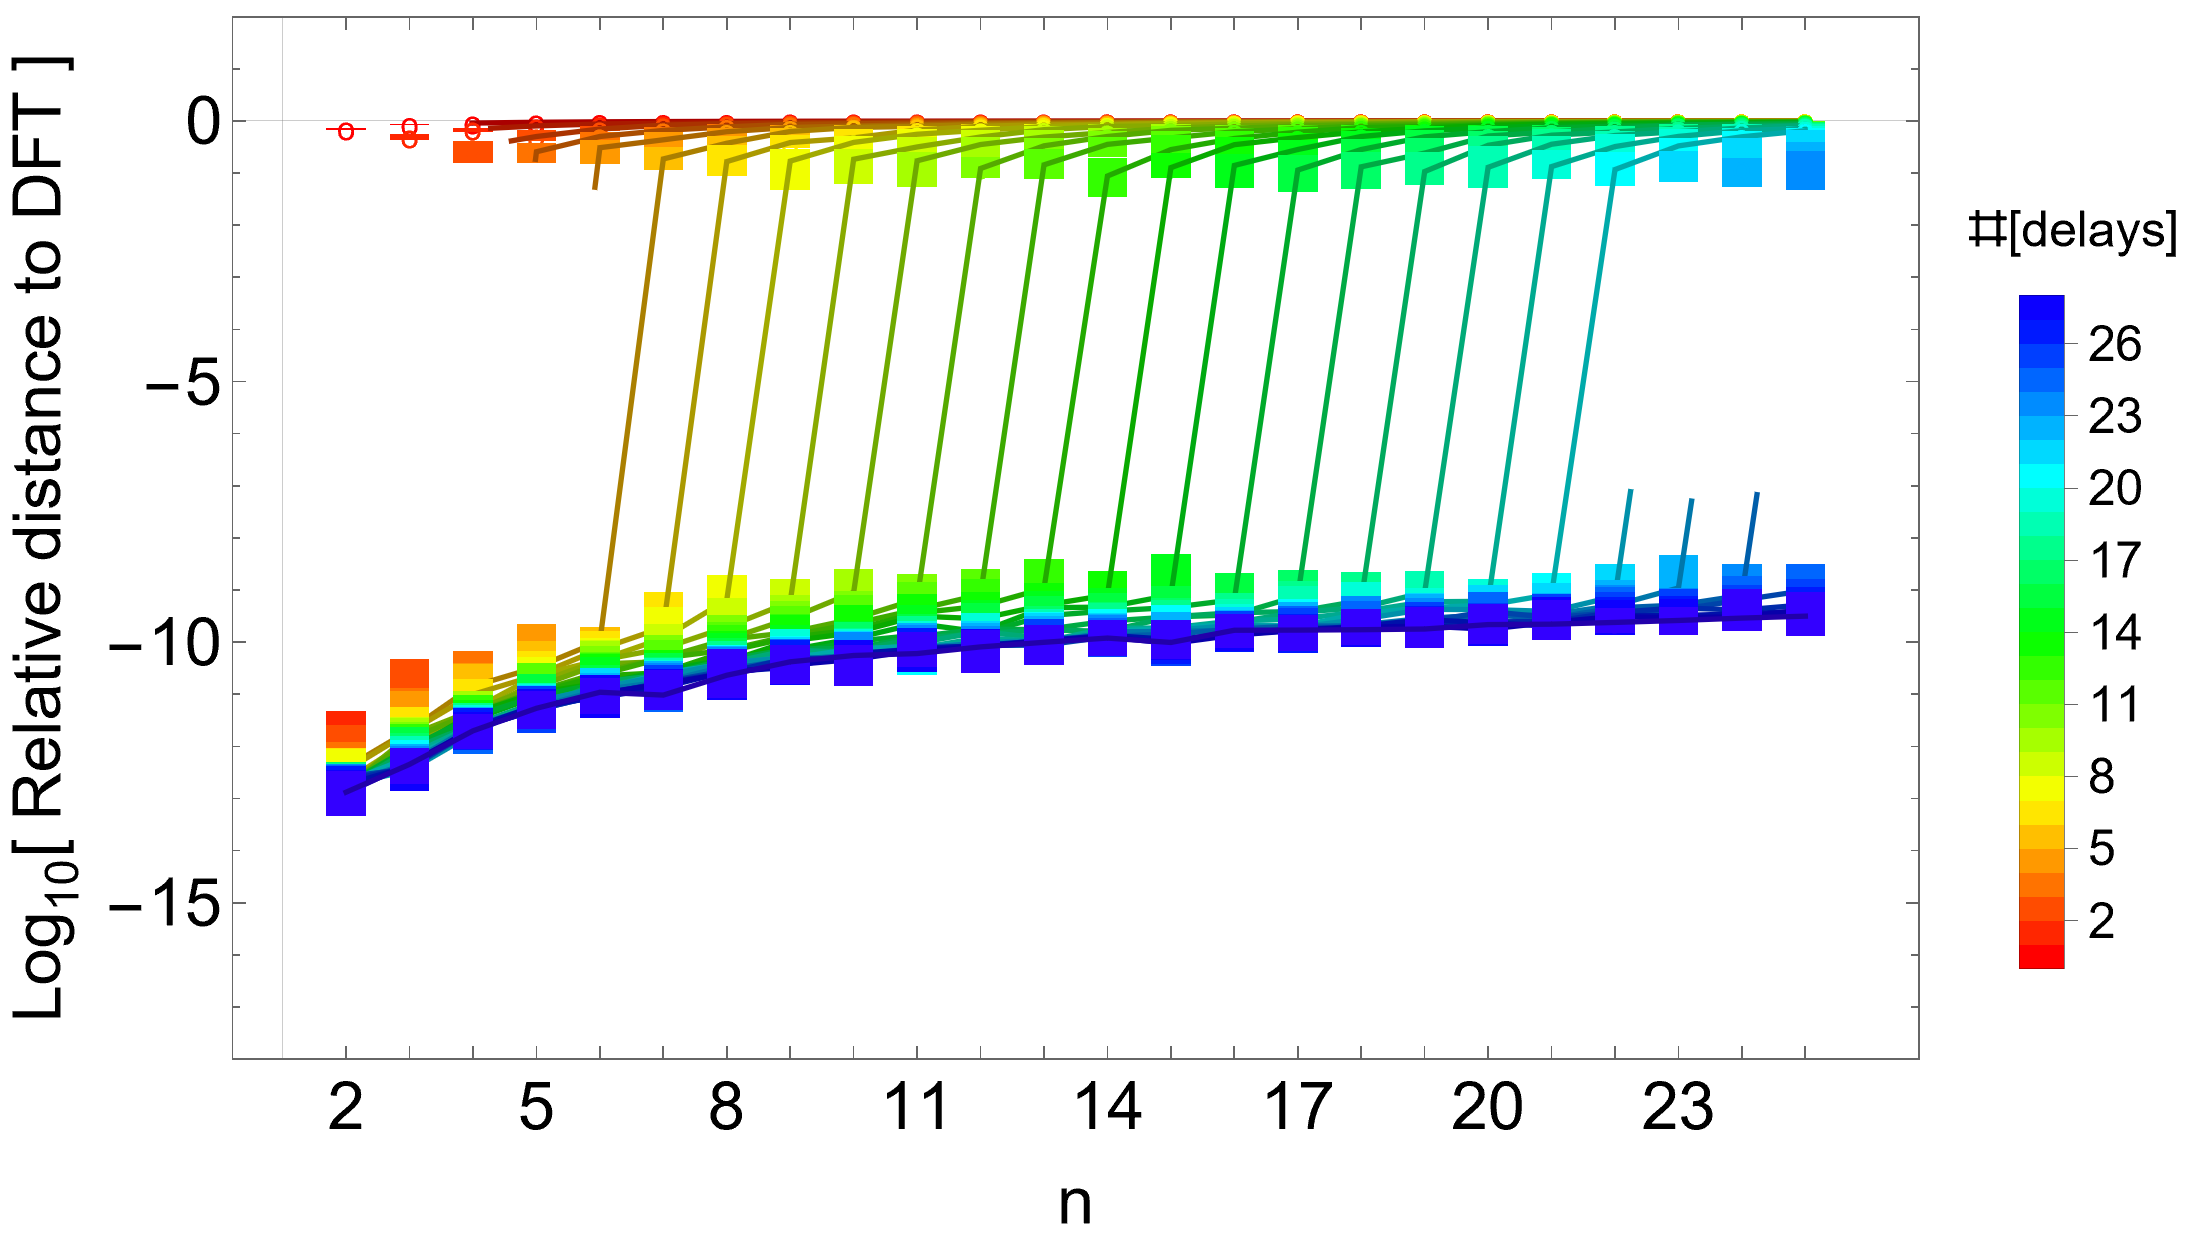
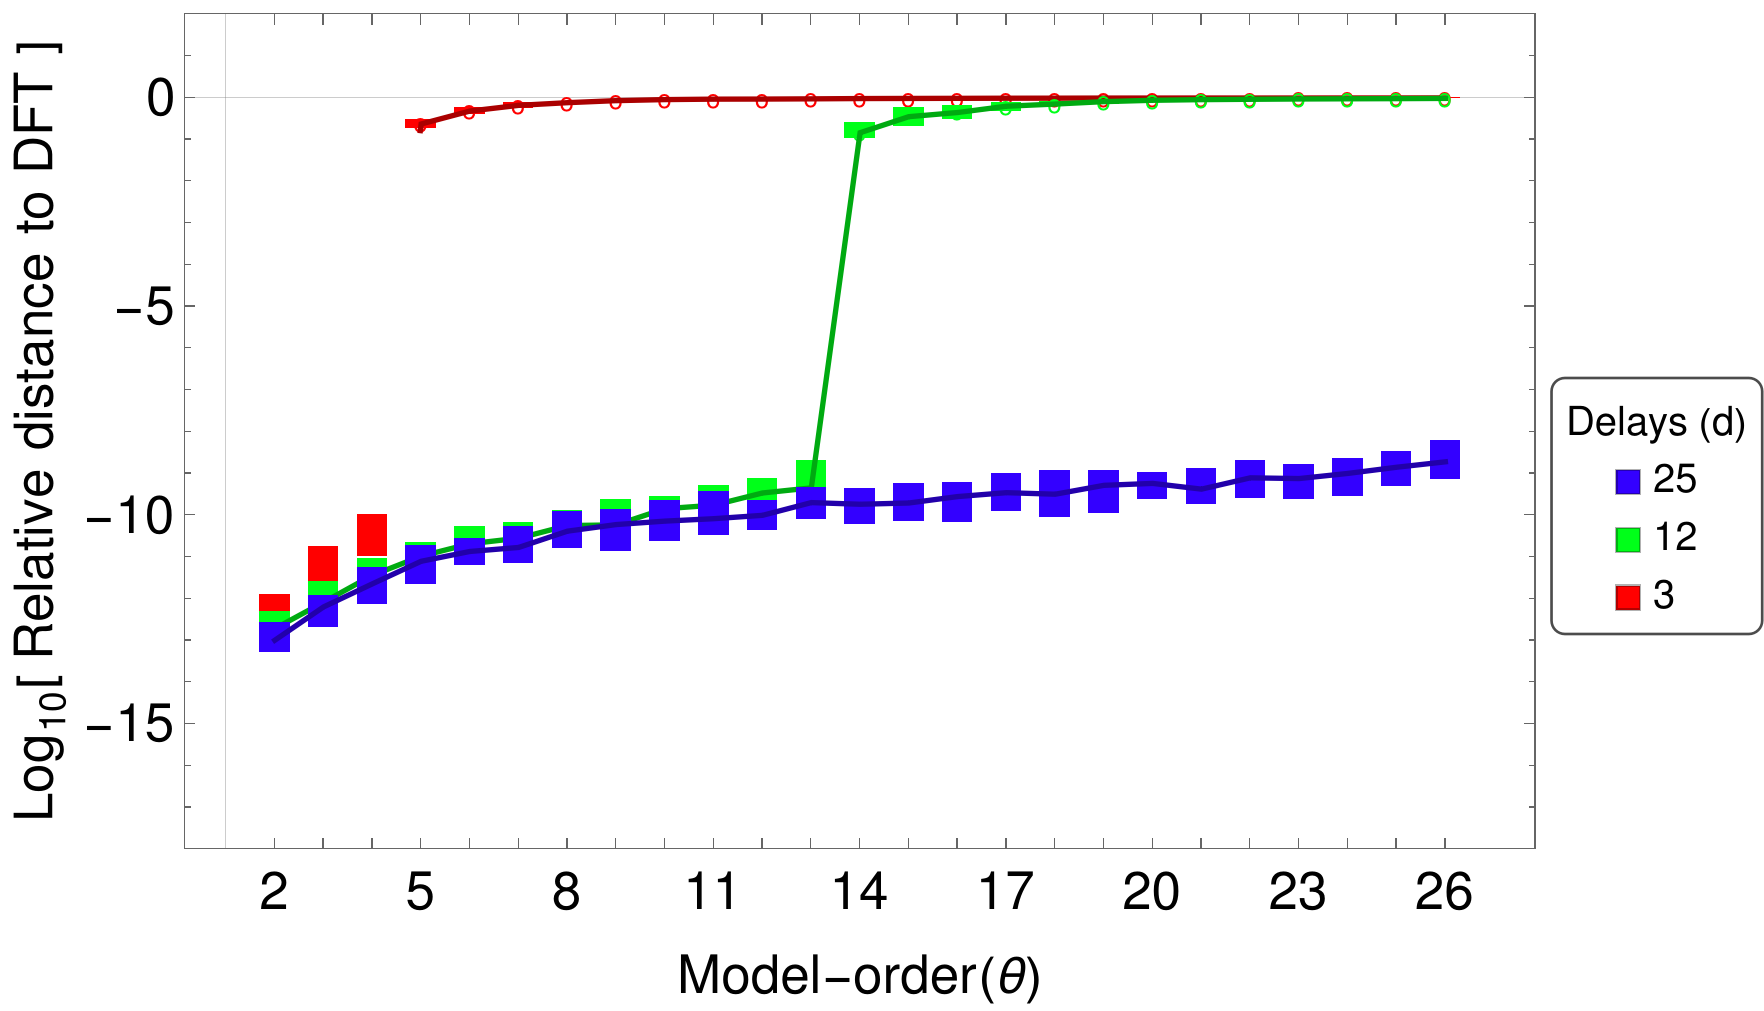
Cleaner plots ++
DistanceToDFT plots
- Only 3 time delays visualized
- Minimum #[delays] = 3

lti.m
- Removed everything after the msub check.
- lti_1a ~ Has 1 but others are not roots of unity.
- lti_3 ~ Dissipative evals of magnitude 0.8-0.9

@lti.m, vdp.m, cavity.m:
Save the plot of singular value tail that gets truncated

--------------------------------------------------------------
Simulation stats:

- delays < 6 ==> No tail lost
  - (LTI 1a  5/5) (LTI 1b 5/5) (LTI 3  5/5)

- only affects for excess delays, away from (o=r) @ LTIs while
preserving non-decreasingness.
  - LTI 1a (12/15) (Tailed 5/15) (Spik 5/5)
  - LTI 1b (21/21) (Tailed 6/17) (Spik 7/7)
  - LTI 3  (12/12) (Tailed 3/9) (Spik 2/9)

- VDP: Spikes @ 11 and 14(only for 12 delays)
  - (11+14   5/5) (Tailed17 0/5)

- Cavity flows.
  - 30k (NoBlueSpik 3/3) (TailedBlue 0/3)

diff --git a/examples/lti.m b/examples/lti.m
@@ -58,7 +58,7 @@ crunchgrub[lticase] = "3";
 (*DMD model order (n) : minn \[LongRightArrow] maxn*)
 
 
-AssociateTo[plotgrub,{testdelays -> {0, 6, 24}(*Join[{0,3,5,6},{13,20,27}]*)(*Range[0,28]*), testdegs-> Range[2,26]}];
+AssociateTo[plotgrub,{testdelays -> {3, 6, 24}(*Join[{0,3,5,6},{13,20,27}]*)(*Range[0,28]*), testdegs-> Range[2,26]}];
 
 
 (* ::Subsubsection::Closed:: *)
@@ -104,10 +104,10 @@ crunchgrub[maxdelays] = Max@ crunchgrub[testdelays];
 
 (* ::Input:: *)
 (*trajgrub[discevals] = Switch[crunchgrub[lticase],*)
-(*"1a", Exp[I*(2\[Pi])/7*Range[0,6]],*)
+(*"1a", Join[{1},RandomReal[{1,1},6]*Exp[I*RandomReal[{-\[Pi],\[Pi]},6]]],*)
 (*"1b",RandomReal[{1,1},7]*Exp[I*RandomReal[{-\[Pi],\[Pi]},7]],*)
 (*"2",RandomReal[{0.8,1.2},7]*Exp[I*RandomReal[{-\[Pi],\[Pi]},7]],*)
-(*"3",Join[RandomReal[{0.8,1},3]*Exp[I*RandomReal[{-\[Pi],\[Pi]},3]],RandomReal[{1,1},4]*Exp[I*RandomReal[{-\[Pi],\[Pi]},4]]]*)
+(*"3",Join[RandomReal[{0.8,0.9},3]*Exp[I*RandomReal[{-\[Pi],\[Pi]},3]],RandomReal[{1,1},4]*Exp[I*RandomReal[{-\[Pi],\[Pi]},4]]]*)
 (*];*)
 
 
@@ -466,88 +466,17 @@ basicolourlist = Array[Hue[#]&,Length@crunchgrub[testdelays],{0,0.7 (* The end o
 (*dmddftdeviationplot = stdBWplot[crunchgrub[testdegs],splog10@ensembledat,basicolourlist,delayscolored,"Model-order(\[Theta])","\!\(\*SubscriptBox[\(Log\), \(10\)]\)[ Relative distance to DFT ]",{-17,1},Hue[0.8]]*)
 
 
-(* ::Text:: *)
-(**)
-
-
-(* ::Input:: *)
-(*savetheseplots[{dmddftdeviationplot },nametheseplots[#,{"dmddftdeviation"}]&,"png"];*)
-
-
 (* ::Subsubsection:: *)
 (*Tail of SVD lost in truncation Vs n*)
 
 
 (* ::Input:: *)
-(*stdBWplot[crunchgrub[testdegs],splog10@ensemblechoppeddat,basicolourlist,delayscolored,HoldForm[n],HoldForm[Subscript[Log, 10][Subscript[\[Sigma], Tail]]],{-17,1},Hue[0.8]]*)
-
-
-(* ::Section:: *)
-(*Theorem checks*)
-
-
-(* ::Item:: *)
-(*Each case generates a 4 x 2 table of heat-maps, each plot describing the variation of an averaged quantity with respect to #[delays] and n*)
-
-
-(* ::Subitem:: *)
-(*Columns : \[Rho]_{Subset}, \[Delta]_{Trivial}*)
-
-
-(* ::Subitem:: *)
-(*Rows: Theorems for Vanilla, Mean-subtracted, mspres and msdel*)
-
-
-(* ::Item:: *)
-(*All theorems predict that beyond a critical value of n determined by r (the dimension of the underlying Koopman invariant subspace), all heat maps* should exhibit low values*)
-
-
-(* ::Subitem:: *)
-(*The second row is a little subtle and better explained in the manuscript*)
-
-
-(* ::Subsection:: *)
-(*True eigenvalues: \sigma(\[CapitalLambda])*)
-
-
-(* ::Input:: *)
-(*liftgrub[truevals] = N@trajgrub[discevals];*)
-(*(* Updating the vertical line for a different set of target eigenvalues *)*)
-(*findnprojsintestdegs = (Flatten[Position[crunchgrub[testdegs],Length[liftgrub[truevals]]]])[[1]];*)
-(**)
-(*vals =ParallelMap[*)
-(*ms1shot4trajvariations[trajgrub, liftgrub, crunchgrub, #] &, *)
-(*{listotseries, listopnoise, vals}\[Transpose]*)
-(*];*)
-
-
-(* ::Input:: *)
-(*truthplots = kmdplots[crunchgrub[testdegs],ratequads,kmdQuality,vals,"Model-order(\[Theta])","KMD-Quality",basicolourlist,delayscolored]*)
-
-
-(* ::Input:: *)
-(*(*savetheseplots[truthplots,nametheseplots[#,prefixstrlist["truevals_",plotgrub[casestrings]]]&,"png"];*)*)
+(*sigmatailplot = stdBWplot[crunchgrub[testdegs],splog10@ensemblechoppeddat,basicolourlist,delayscolored,"Model-order(\[Theta])",HoldForm[Subscript[Log, 10][Subscript[\[Sigma], Tail]]],{-17,1},Hue[0.8]]*)
 
 
 (* ::Subsubsection:: *)
-(*Save again*)
+(*Save both plots above*)
 
 
 (* ::Input:: *)
-(*DumpSave[crunchgrub[savefile],{vals,crunchgrub,trajgrub,liftgrub,basicolourlist,listoICs,plotgrub,simsteps,crunchcoords}];*)
-
-
-(* ::PageBreak:: *)
-(**)
-
-
-(* ::Chapter:: *)
-(*Restore-point #2*)
-
-
-(* ::Text:: *)
-(*Complete save-point*)
-
-
-(* ::Input:: *)
-(*(*Get[crunchgrub[savefile]];*)*)
+(*savetheseplots[{dmddftdeviationplot, sigmatailplot },nametheseplots[#,{"dmddftdeviation", "sigmatail"}]&,"png"];*)

diff --git a/examples/vdp.m b/examples/vdp.m
@@ -50,7 +50,7 @@ crunchgrub[plotdir] = FileNameJoin[{FileNameJoin[Drop[FileNameSplit[NotebookFile
 (*DMD model order (n) : minn \[LongRightArrow] maxn*)
 
 
-AssociateTo[plotgrub,{testdelays -> (*DeleteDuplicates@Join[Range[0,28],Range[30,100,10],Range[100,500,50]]*)(*{6,25,50,100,200,400}*){0, 12, 25}, testdegs-> Range[2,26]}];
+AssociateTo[plotgrub,{testdelays -> (*DeleteDuplicates@Join[Range[0,28],Range[30,100,10],Range[100,500,50]]*)(*{6,25,50,100,200,400}*){3, 12, 25}, testdegs-> Range[2,26]}];
 
 
 (* ::Subsubsection::Closed:: *)
@@ -457,13 +457,17 @@ basicolourlist = Array[Hue[#]&,Length@crunchgrub[testdelays],{0,0.7 (* The end o
 (*dmddftdeviationplot = stdBWplot[crunchgrub[testdegs],splog10@ensembledat,basicolourlist,delayscolored,"Model-order(\[Theta])","\!\(\*SubscriptBox[\(Log\), \(10\)]\)[ Relative distance to DFT ]",{-17,1},Transparent]*)
 
 
-(* ::Input:: *)
-(*savetheseplots[{dmddftdeviationplot },nametheseplots[#,{"dmddftdeviation"}]&,"png"];*)
-
-
 (* ::Subsubsection:: *)
 (*Tail of SVD lost in truncation Vs n*)
 
 
 (* ::Input:: *)
-(*stdBWplot[crunchgrub[testdegs],splog10@ensemblechoppeddat,basicolourlist,delayscolored,HoldForm[n],HoldForm[Subscript[Log, 10][Subscript[\[Sigma], Tail]]],{-17,1},Transparent]*)
+(*sigmatailplot =stdBWplot[crunchgrub[testdegs],splog10@ensemblechoppeddat,basicolourlist,delayscolored,"Model-order(\[Theta])",HoldForm[Subscript[Log, 10][Subscript[\[Sigma], Tail]]],{-17,1},Transparent]*)
+
+
+(* ::Subsubsection:: *)
+(*Save both plots above*)
+
+
+(* ::Input:: *)
+(*savetheseplots[{dmddftdeviationplot, sigmatailplot },nametheseplots[#,{"dmddftdeviation", "sigmatail"}]&,"png"];*)

diff --git a/examples/cavity.m b/examples/cavity.m
@@ -63,7 +63,7 @@ AssociateTo[trajgrub, vfield -> "13k"];
 (*DMD model order (n) : minn \[LongRightArrow] maxn*)
 
 
-AssociateTo[plotgrub,{testdelays -> {0, 12, 25}(*Range[0,28]*)(*{6,25,50,100,200,400}*), testdegs-> Range[2,26]}];
+AssociateTo[plotgrub,{testdelays -> {3, 12, 25}(*Range[0,28]*)(*{6,25,50,100,200,400}*), testdegs-> Range[2,26]}];
 
 
 (* ::Subsubsection:: *)
@@ -432,13 +432,17 @@ basicolourlist = Array[Hue[#]&,Length@crunchgrub[testdelays],{0,0.7 (* The end o
 (*dmddftdeviationplot = stdBWplot[crunchgrub[testdegs],splog10@ensembledat,basicolourlist,delayscolored,"Model-order(\[Theta])","\!\(\*SubscriptBox[\(Log\), \(10\)]\)[ Relative distance to DFT ]",{-17,1},Transparent]*)
 
 
-(* ::Input:: *)
-(*savetheseplots[{dmddftdeviationplot },nametheseplots[#,{"dmddftdeviation"}]&,"png"];*)
-
-
 (* ::Subsubsection:: *)
 (*Tail of SVD lost in truncation Vs n*)
 
 
 (* ::Input:: *)
-(*stdBWplot[crunchgrub[testdegs],splog10@ensemblechoppeddat,basicolourlist,delayscolored,HoldForm[n],HoldForm[Subscript[Log, 10][Subscript[\[Sigma], Tail]]],{-17,1},Transparent]*)
+(*sigmatailplot =stdBWplot[crunchgrub[testdegs],splog10@ensemblechoppeddat,basicolourlist,delayscolored,"Model-order(\[Theta])",HoldForm[Subscript[Log, 10][Subscript[\[Sigma], Tail]]],{-17,1},Transparent]*)
+
+
+(* ::Subsubsection:: *)
+(*Save both plots above*)
+
+
+(* ::Input:: *)
+(*savetheseplots[{dmddftdeviationplot, sigmatailplot },nametheseplots[#,{"dmddftdeviation", "sigmatail"}]&,"png"];*)
